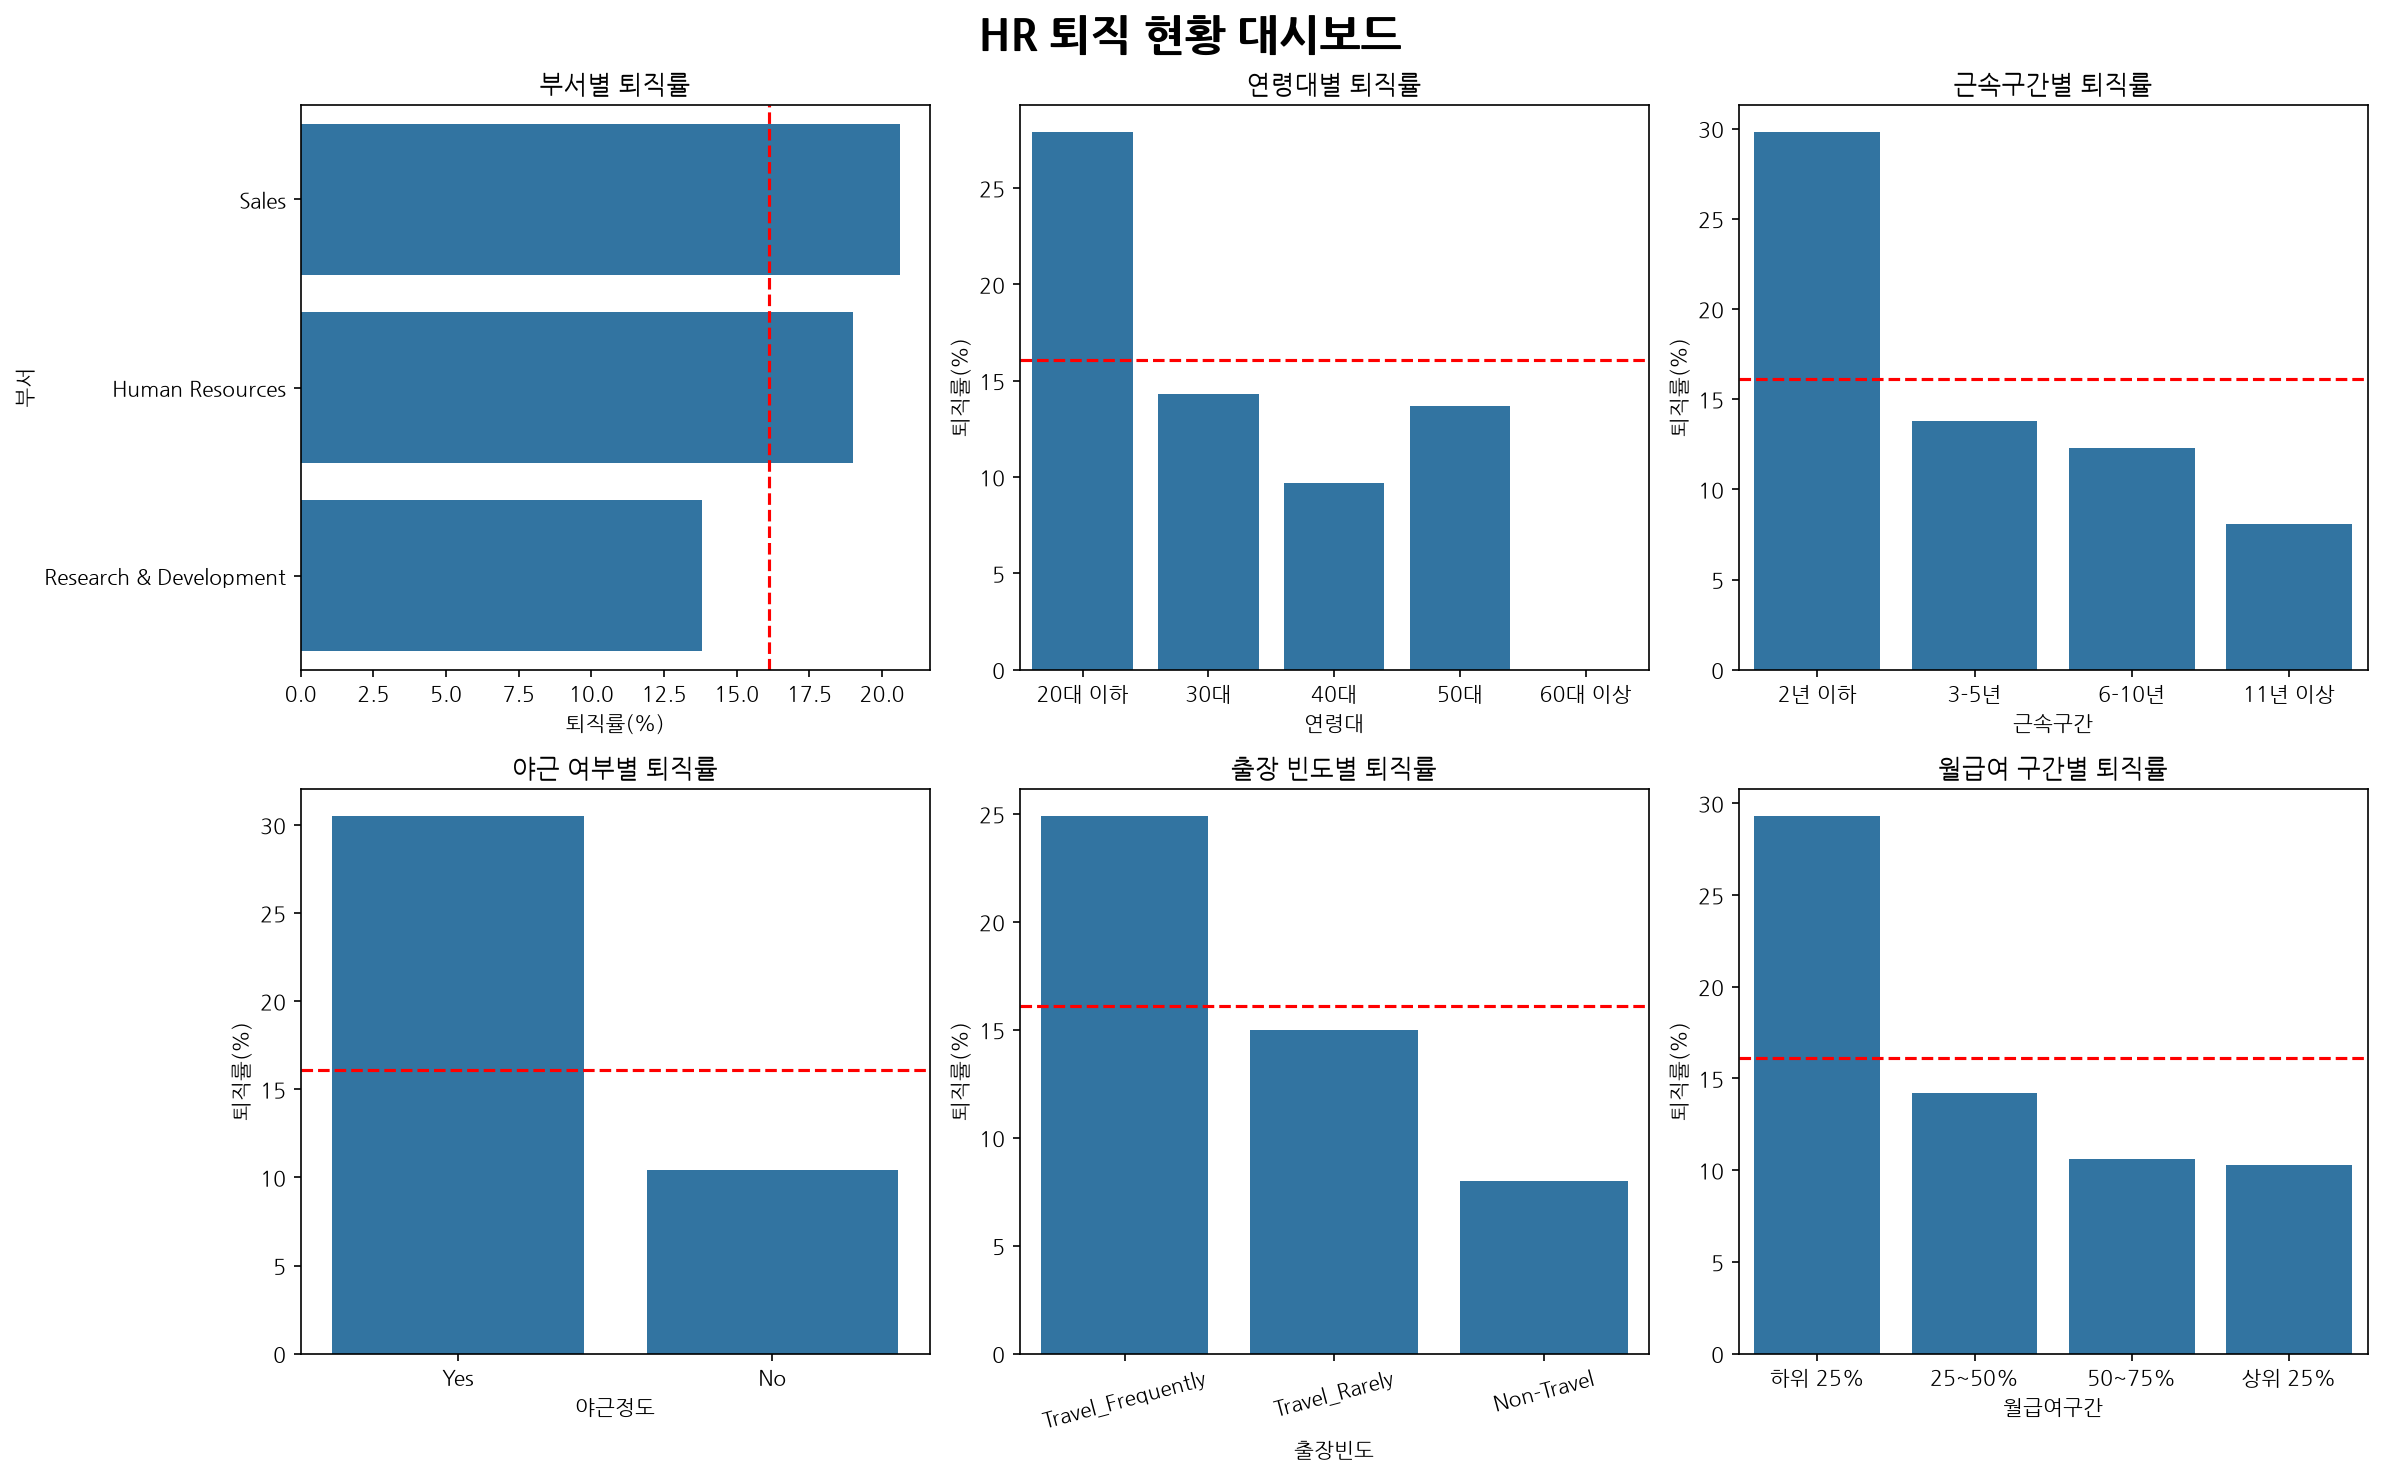
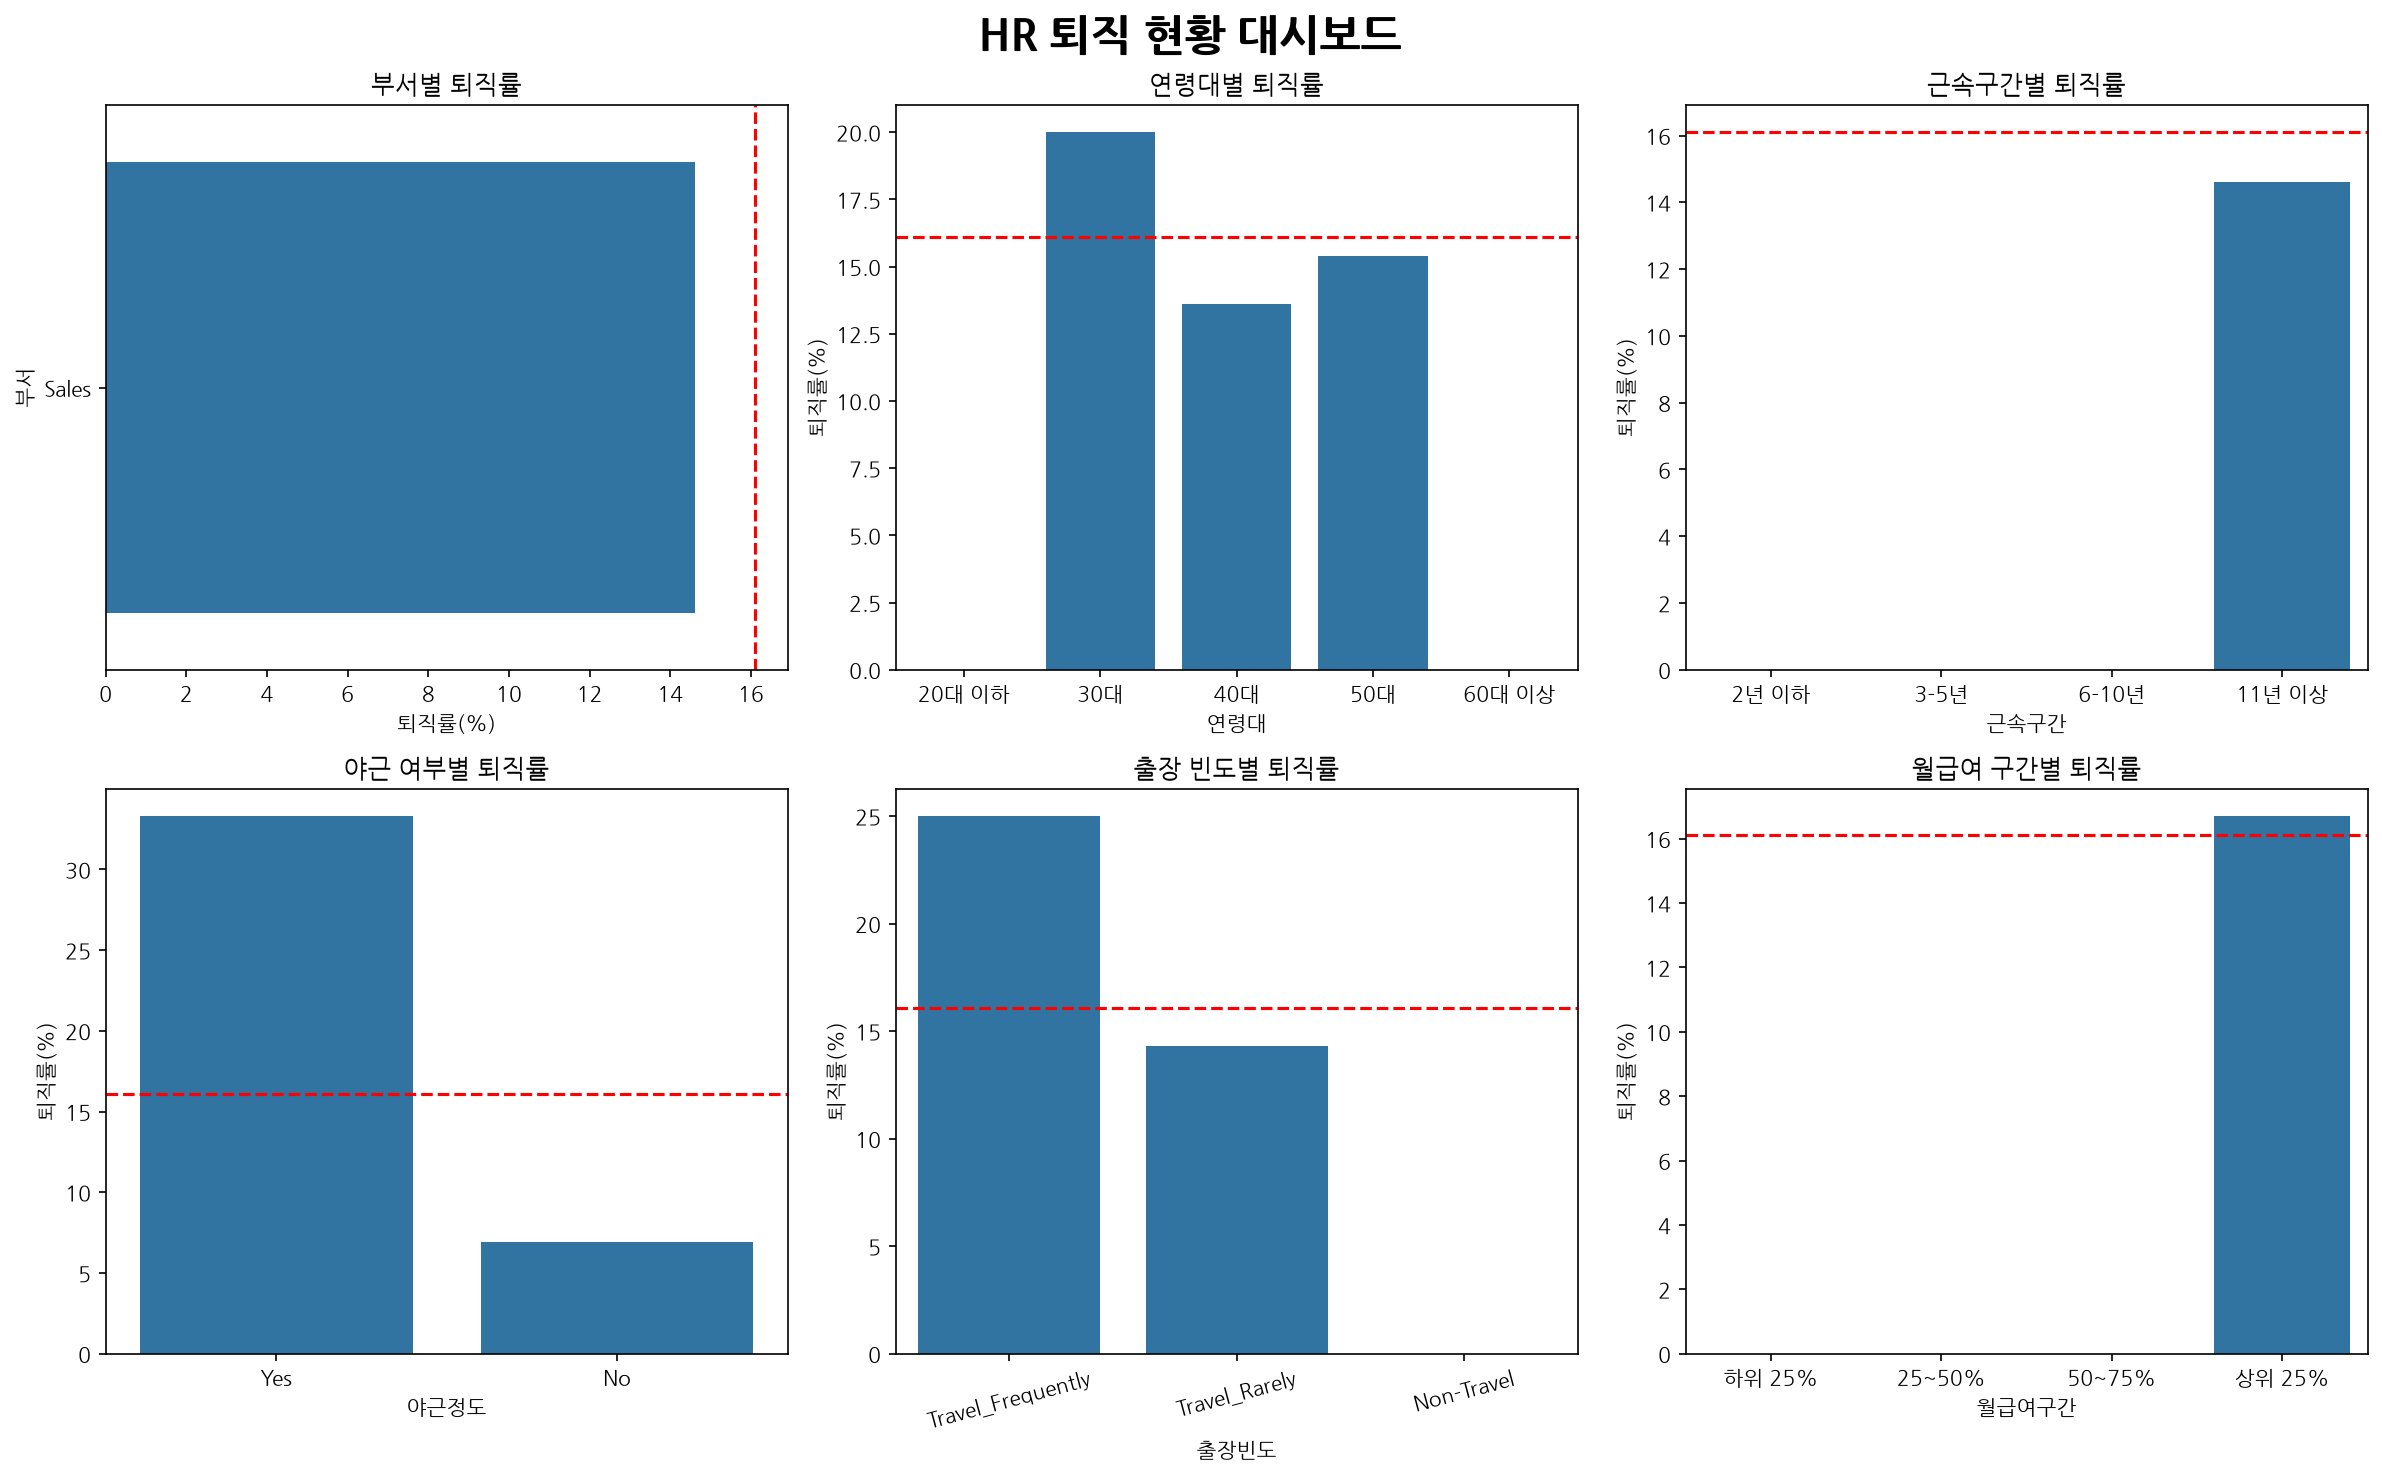
ㅠㅠ

diff --git a/hrdatadashboard.py b/hrdatadashboard.py
@@ -42,14 +42,17 @@ col3.metric(label="전체 퇴직률", value=f"{overall_rate:.1f}%", delta="-1.2%
 
 # 사이드바 필터
 st.sidebar.title("조회 조건")
-min_employees, max_employees = st.sidebar.slider("직원 수를 선택하세요", 
-                                         min_value=0, max_value=len(hr), value=(0, len(hr)), step=50)
 
-min_attritions, max_attritions = st.sidebar.slider("퇴직자 수를 선택하세요", 
-                                         min_value=0, max_value=hr['퇴직'].sum(), value=(0, hr['퇴직'].sum()), step=50)
+dept = st.sidebar.selectbox("부서를 선택하세요:", ["전체"] + list(hr['부서'].unique()))
 
-min_rate, max_rate = st.sidebar.slider("퇴직률을 선택하세요",
-                                         min_value=0.0, max_value=100.0, value=(0.0, 100.0), step=1.0)
+min_tenure, max_tenure = st.sidebar.slider("근속연수를 선택하세요", 
+                                         min_value=0, max_value=hr['근속연수'].max(), value=(0, hr['근속연수'].max()), step=1)
+
+# 데이터 필터링
+if dept != "전체": # 전체가 아니면 , 개발부나 영업부인거니까  해당하는 부서만 필터링
+    hr = hr[hr["부서"] == dept]
+
+hr = hr[(hr["근속연수"] >= min_tenure) & (hr["근속연수"] <= max_tenure)]
 
 def attritions_summary(data, group_column) :
     result = data.groupby(group_column, observed=True).agg(직원수 = ('퇴직', 'size'),
